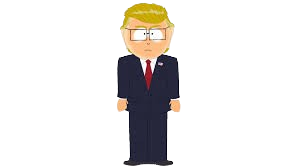
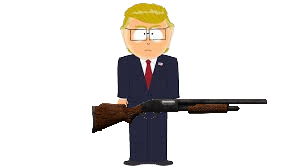
mejoras

Changed region(s): [[0.3, 0.5655, 0.9, 0.8036]]

diff --git a/juego/js/script.js b/juego/js/script.js
@@ -15,7 +15,12 @@ const gameBoxNode = document.querySelector("#game-box")
 let trumpObj = null
 
 let jokerArr = []
+let alejandroArr = []
+let balaArr = []
+let gameIntervalId = null
+let jokerSpawnIntervalId = null
 
+// let positionY = trumpObj.y
 //Funciones
 function startGame(){
 
@@ -23,17 +28,25 @@ function startGame(){
     gameScreenNode.style.display = "flex"
 
     trumpObj = new Trump()
+    balaObj = new Bala(positionY)
+    balaArr.push(balaArr)
 
-    // jokerObj = new Joker()
 
-    setInterval (() => {
+
+    
+
+    gameIntervalId = setInterval (() => {
         gameLoop()
 
     },Math.round(1000/60))
 
-    setInterval(() => {
+   jokerSpawnIntervalId = setInterval(() => {
         jokerSpawn()
     }, 2000)
+
+    alejandroSpawnIntervalId = setInterval(() => {
+        alejandroSpawn()
+    }, 2200)
 
 }
 
@@ -43,13 +56,29 @@ jokerArr.forEach((eachJoker) => {
     eachJoker.movement()
 })
 
+alejandroArr.forEach((eachAlejandro) => {
+    eachAlejandro.movement()
+})
+
 jokerDespawn()
+colision()
+alejandroDespawn()
 
 }
 
 function jokerSpawn(){
-let jokerObj = new Joker()
-jokerArr.push(jokerObj)
+    
+
+randomPosition =Math.floor(Math.random() * 500)
+
+let jokerObj1 = new Joker("arriba", randomPosition)
+jokerArr.push(jokerObj1)
+// let alejandroObj = new Joker("centroA", randomPosition)
+// jokerArr.push(alejandroObj)
+// // let jokerObj3 = new Joker("centroB", randomPosition)
+// // jokerArr.push(jokerObj3)
+// // let jokerObj4 = new Joker("abajo", randomPosition)
+// // jokerArr.push(jokerObj4)
 
 }
 function jokerDespawn(){
@@ -60,6 +89,50 @@ function jokerDespawn(){
     }
 }
 
+function alejandroSpawn (){
+    let alejandroObj = new Alejandro ("centroA", randomPosition)
+alejandroArr.push(alejandroObj)
+}
+
+function alejandroDespawn(){
+    if(alejandroArr.length > 0 && alejandroArr[0].x < (0 - alejandroArr[0].w)){
+        alejandroArr[0].node.remove()
+
+        alejandroArr.shift()
+    }
+}
+
+function colision(){
+jokerArr.forEach((eachJoker) => {
+      if (
+    eachJoker.x < trumpObj.x + trumpObj.w &&
+    eachJoker.x + eachJoker.w > trumpObj.x &&
+    eachJoker.y < trumpObj.y + trumpObj.h &&
+    eachJoker.y + eachJoker.h > trumpObj.y
+      )
+   {
+// //     // Collision detected!
+// //     this.color("green");
+// //   } else {
+// //     // No collision
+// //     this.color("blue");
+gameOver()
+  }
+
+})
+}
+function gameOver(){
+    console.log("game over")
+
+    clearInterval(gameIntervalId)
+    clearInterval(jokerSpawnIntervalId)
+    clearInterval(alejandroSpawnIntervalId)
+
+    // faltan intervalos de putin
+
+    gameScreenNode.style.display = "none"
+    gameOverScreenNode.style.display = "flex"
+}
 
 //Event listeners
 
@@ -73,6 +146,15 @@ window.addEventListener("keydown",(event) => {
     trumpObj.jumpDown()
 } else if (event.code === "ArrowUp"){
     trumpObj.jumpUp()
+}
+})
+
+window.addEventListener("keydown",(event) => {
+
+    if(event.code === "ArrowDown"){
+    balaObj.jumpDown()
+} else if (event.code === "ArrowUp"){
+    balaObj.jumpUp()
 }
 })
        

diff --git a/juego/js/alejandro.js b/juego/js/alejandro.js
@@ -1,18 +1,10 @@
-class Joker {
+class Alejandro {
     constructor(type, positionY){
 
         this.node = document.createElement("img")
         
-        // if(type === "arriba"){
-        this.node.src = "/juego/img/mexican-joker.png"
-        //  } else if(type === "centroA"){
-        // this.node.src = "/juego/img/mexican-joker.png"
-        //  } else if (type === "centroB"){
-        // this.node.src = "/juego/img/mexican-joker.png"
-
-        //  } else if (type === "abajo"){
-        // this.node.src = "/juego/img/mexican-joker.png"
-        //  }
+        this.node.src = "/juego/img/alejandro.png"
+       
         
         gameBoxNode.append(this.node)
 
@@ -28,7 +20,7 @@ class Joker {
         this.node.style.width = `${this.w}px`
         this.node.style.height = `${this.h}px`
 
-        this.movementSpeed = 5 
+        this.movementSpeed = 4
 
         this.type = type
 

diff --git a/juego/js/bala.js b/juego/js/bala.js
@@ -1,15 +1,15 @@
-class Trump {
- constructor(){
+class Bala {
+ constructor(positionY){
 
     this.node = document.createElement("img")
-    this.node.src = "/juego/img/trump.png"
+    this.node.src = "/juego/img/bala.png"
 
     gameBoxNode.append(this.node)
 
     this.x = 30;
-    this.y = 50;
-    this.w = 180;
-    this.h = 120;
+    this.y = positionY;
+    this.w = 80;
+    this.h = 60;
 
     this.node.style.position ="absolute"
     this.node.style.left = `${this.x}px`

diff --git a/juego/css/style.css b/juego/css/style.css
@@ -19,6 +19,11 @@ body {
   font-weight: bold;
 }
 
+#start-btn:hover {
+  background-color: #2980b9;
+  transform: scale(1.05);
+}
+
 #restart-btn {
   color: black;
   text-align: center;
@@ -26,6 +31,11 @@ body {
   width: 200px;
   border-radius: 10px;
   font-weight: bold;
+}
+#restart-btn:hover {
+  background-color: #03090c;
+  color: white;
+  transform: scale(1.05);
 }
 
 #xocas {

diff --git a/juego/html/index.html b/juego/html/index.html
@@ -30,5 +30,7 @@
     <script src="/juego/js/script.js"></script>
     <script src="/juego/js/trump.js"></script>
     <script src="/juego/js/joker.js"></script>
+    <script src="/juego/js/alejandro.js"></script>
+    <script src="/juego/js/bala.js"></script>
   </body>
 </html>
